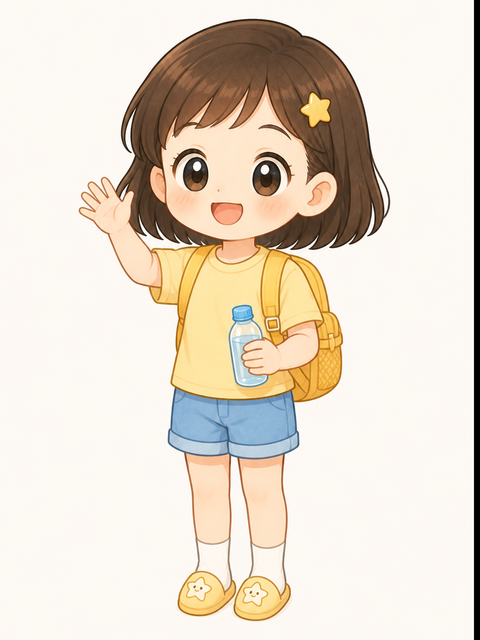
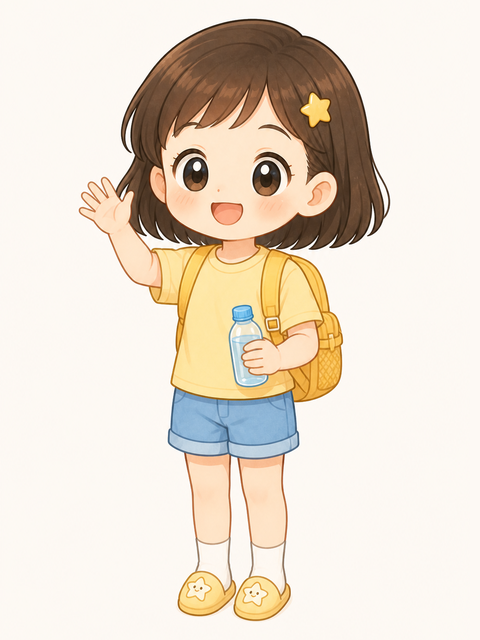
임시: 화면 폭별 확인용 미리보기 프레임(검증 후 제거)

Changed region(s): [[0.9688, 0.0, 1.0, 1.0]]

diff --git a/_preview.html b/_preview.html
@@ -1,0 +1,23 @@
+<!DOCTYPE html>
+<html lang="ko">
+<head>
+<meta charset="utf-8">
+<title>미리보기 프레임</title>
+<style>
+  html, body { margin: 0; padding: 0; background: #F3F0EA; }
+  body { display: flex; align-items: flex-start; justify-content: center; }
+  iframe { border: 0; width: 1080px; height: 980px; background: #FFF8F0; display: block; }
+</style>
+</head>
+<body>
+<iframe id="frame" src="index.html" title="우리 가족 기록장 미리보기"></iframe>
+<script>
+  (function () {
+    var q = new URLSearchParams(location.search);
+    var f = document.getElementById("frame");
+    if (q.get("w")) f.style.width = parseInt(q.get("w"), 10) + "px";
+    if (q.get("h")) f.style.height = parseInt(q.get("h"), 10) + "px";
+  })();
+</script>
+</body>
+</html>
